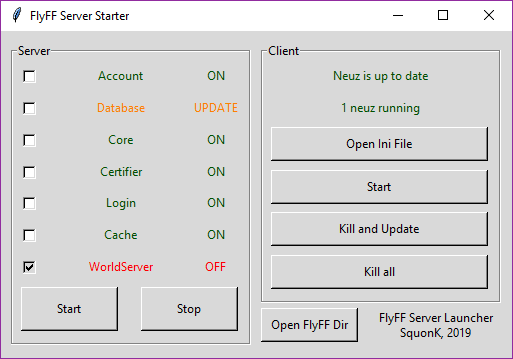
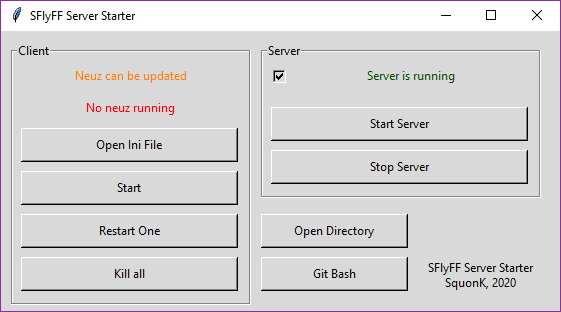
Clean the code

Changed region(s): [[0.0, 0.0, 1.0, 1.0], [0.6238, 0.2019, 0.8421, 0.2596], [0.1248, 0.2019, 0.3431, 0.2596]]

diff --git a/Launcher.py b/Launcher.py
@@ -5,15 +5,15 @@ import os
 import shutil
 from subprocess import Popen, PIPE
 
-# == FlyFF server launcher by SquonK, 2019 ==
-# The intent of this program is to fluidify the workflow by having an easy way to update servers executable
-# for local testing purposes.
+# == FlyFF server launcher by SquonK, 2019-2020 ==
+# The intent of this program is to fluidify the workflow by having an easy way
+# to update server executable for local testing purposes.
 #
 # Error checking is kept to a minimum as this program is not intended to be use in production context
 
 # Options
 # GIT_EXECUTABLE_PATH = None  # If you want the git button, replace with the path a git executable
-GIT_EXECUTABLE_PATH = "C:\Program Files\Git\git-bash.exe"
+GIT_EXECUTABLE_PATH = "C:\\Program Files\\Git\\git-bash.exe"
 
 
 # Represents a generic program with a source file where is written the compiled program and a destination executable.
@@ -68,7 +68,7 @@ class Program:
         for function in self.functions:
             function(self)
     
-    
+# Represents the client, which is 1 program and 0-n process
 class ProgramClient(Program):
     def __init__(self, executable, source):
         Program.__init__(self, executable, source)
@@ -103,7 +103,7 @@ class ProgramClient(Program):
         os.startfile(ini_file)
 
 
-# Represents a program which is part of a server (only one process concurrently, can have a dependencie)
+# Represents the server, which is 1 program and 0-1 process
 class ProgramServer(Program):
     startuphidden = None
 
@@ -115,16 +115,12 @@ class ProgramServer(Program):
                 ProgramServer.startuphidden.dwFlags |= subprocess.STARTF_USESHOWWINDOW
 
     # Initialize the program
-    def __init__(self, name, executable, source, timeout, hide=True):
+    def __init__(self, executable, source, hide=True):
         Program.__init__(self, "..\\Program\\" + executable, source)
     
         # Passed properties
-        self.name = name
-        self.timeout = timeout
         self.hide = hide
         self.check_box = None
-        self.dependencies = []
-        self.reliedby = []
         self.cwd = None
         
         ProgramServer.ensure_startup_exist()
@@ -132,12 +128,7 @@ class ProgramServer(Program):
         # Built properties
         self.process = None
         self.cwd = "..\\Program\\"
-        
-    # Add a dependencie
-    def add_dependencie(self, dependencie):
-        self.dependencies.append(dependencie)
-        dependencie.reliedby.append(self)
-        
+                
     # Returns true if a process for this program is running
     def is_running(self):
         if self.process is None:
@@ -150,24 +141,13 @@ class ProgramServer(Program):
         return False
         
     # If the process is running, kills it
-    def kill(self):
+    def kill_all_process(self):
         if self.process is None:
             return
         
         self.process.kill()
         self.process = None
-    
-    def kill_top(self):
-        for relied in self.reliedby:
-            relied.kill_top()
             
-        if self.is_running():
-            self.kill()
-    
-    def kill_all_process(self):
-        if self.is_running():
-            self.kill_top()
-    
     def get_status(self):
         if not self.is_running():
             return FlyFFLauncher.STATUS_OFF
@@ -179,22 +159,12 @@ class ProgramServer(Program):
     def start(self):
         restart = False
         
-        for dependencie in self.dependencies:
-            status = dependencie.start()
-            
-            if status == FlyFFLauncher.COULDNT_START:
-                return (0, FlyFFLauncher.COULDNT_START)
-            elif status == FlyFFLauncher.CHANGED_PROCESS:
-                restart = True
-        
         if not self.is_up_to_date():
             self.update()
             restart = True
         
         if self.is_running() and not restart:
-            return (0, FlyFFLauncher.ALREADY_STARTED)
-        
-        self.kill_top()
+            return FlyFFLauncher.ALREADY_STARTED
         
         startupinfo = ProgramServer.startuphidden if self.hide else None
         
@@ -203,9 +173,9 @@ class ProgramServer(Program):
         time.sleep(1)
 
         if self.is_running():
-            return (self.timeout - 1, FlyFFLauncher.CHANGED_PROCESS)
+            return FlyFFLauncher.CHANGED_PROCESS
         else:
-            return (self.timeout - 1, FlyFFLauncher.COULDNT_START)
+            return FlyFFLauncher.COULDNT_START
             
 
 # Global launcher
@@ -221,83 +191,40 @@ class FlyFFLauncher:
     # Constructor
     def __init__(self):
         self.client = ProgramClient('..\\Resource\\Neuz.exe', '..\\Output\\Neuz\\NoGameguard\\Neuz.exe')
-    
-        def make_output_path(name):
-            return '..\\Output\\' + name + '\\Release\\' + name + '.exe'
-    
-        self.list = [ProgramServer('SFlyFF Server', 'WorldServer.exe', make_output_path('WorldServer'), 4, False)]
-        
-        # Add dependencies
-        for i in range(len(self.list) - 1):
-            self.list[i + 1].add_dependencie(self.list[i])
+        self.server = ProgramServer('WorldServer.exe', '..\\Output\\{0}\\Release\\{0}.exe'.format('WorldServer'), False)
     
     # Launch every process of the list
     def start(self):
-        extra_timeout = 0
-        for program in self.list:
-            if extra_timeout != 0:
-                time.sleep(extra_timeout)
-            
-            extra_timeout, error = program.start() 
-            if error == FlyFFLauncher.COULDNT_START:
-                return False
-        return True
-        
-    def start_with_bound(self, i):
-        extra_timeout = 0
-        for program in self.list[0:i]:
-            if extra_timeout != 0:
-                time.sleep(extra_timeout)
-                
-            extra_timeout, error = program.start() 
-            if error == FlyFFLauncher.COULDNT_START:
-                return False
+        error = self.server.start() 
+        if error == FlyFFLauncher.COULDNT_START:
+            return False
         return True
     
     def kill_server(self):
-        for program in self.list:
-            program.kill()
-    
-    def func_server_killer(self, i):
-        def f():
-            for program in self.list[i:]:
-                program.kill()
-        return f
+        self.server.kill_all_process()
     
     def kill(self):
-        self.kill_server()
+        self.server.kill_all_process()
         self.client.kill_all_process()
         
-    def start_app(self, i):
-        def f():
-            self.list[i - 1].start()
-        return f
-    
-    def kill_app(self, i):
-        def f():
-            self.list[i - 1].kill()
-        return f
-    
     def open_dir(self):
         os.startfile("..\\")
     
     # GUI
-    def bind(self, index, function):
-        self.list[index].bind(function)
+    def bind_server(self, function):
+        self.server.bind(function)
         
     def bind_client(self, function):
         self.client.bind(function)
         
-    def apply(self, index, function):
-        function(self.list[index])
+    def apply_server(self, function):
+        function(self.server)
         
     def apply_client(self, function):
         function(self.client)
         
     def use_binds(self):
-        for program in self.list:
-            program.use_bind()
-        
+        self.server.use_bind()
         self.client.use_bind()
 
 
@@ -324,20 +251,22 @@ def link_with_gui(root, interface):
     # Extra button
     interface.OpenFlyFFDir.configure(command=flyff.open_dir)
     
-    # Server
-    status_text = {
-        FlyFFLauncher.STATUS_STARTED: "Server is running",
-        FlyFFLauncher.STATUS_OFF: "Server is off",
-        FlyFFLauncher.STATUS_OBSOLETE: "Server can be updated"
-    }
-    
+    # Bindings    
     status_color = {
         FlyFFLauncher.STATUS_STARTED: "#005000",
         FlyFFLauncher.STATUS_OFF: "#FF0000",
         FlyFFLauncher.STATUS_OBSOLETE: "#FF8000"
     }
     
-    def bind_line(index, box_name, box_status, check_box):
+    # Server Bindings
+    def install_server_bindings():
+        status_text = {
+            FlyFFLauncher.STATUS_STARTED: "Server is running",
+            FlyFFLauncher.STATUS_OFF: "Server is off",
+            FlyFFLauncher.STATUS_OBSOLETE: "Server can be updated"
+        }
+
+        check_box = interface.ServCbx01
         def copy_name(program):
             if program.hide:
                 state = tk.NORMAL
@@ -354,14 +283,14 @@ def link_with_gui(root, interface):
             program.check_box = check_box
         
         def write_status(program):
-            box_status.configure(text=status_text.get(program.get_status(), "Unknown"))
-            box_status.configure(foreground=status_color.get(program.get_status(), "black"))
+            interface.ServState01.configure(text=status_text.get(program.get_status(), "Unknown"))
+            interface.ServState01.configure(foreground=status_color.get(program.get_status(), "black"))
     
-        flyff.apply(index, copy_name)
-        flyff.bind(index, write_status)
+        flyff.apply_server(copy_name)
+        flyff.bind_server(write_status)
     
-    bind_line(0, None, interface.ServState01, interface.ServCbx01)
-    
+    install_server_bindings()
+
     def start_in_new_thread():
         from threading import Thread
         
@@ -370,6 +299,7 @@ def link_with_gui(root, interface):
                 Thread.__init__(self)
     
             def run(self):
+                button_list = [interface.ServStart_2, interface.ServStart_1]
                 for b in button_list:
                     b.configure(state=tk.DISABLED)
                 flyff.start()
@@ -378,11 +308,6 @@ def link_with_gui(root, interface):
     
         thread = StartingThread()
         thread.start()
-    
-    button_list = [
-        interface.ServStart_2,
-        interface.ServStart_1
-    ]
     
     interface.ServStart_1.configure(command=start_in_new_thread)
     interface.ServStart_2.configure(command=flyff.kill_server)

diff --git a/README.md b/README.md
@@ -1,8 +1,15 @@
 # ServerStarter
 
-This is a small python script intended to FlyFF developpers to make it easier to start / restart the parts of the server during development.
+This is a small python script intended to FlyFF developpers to make it easier to
+start / restart the parts of the server during development.
 
 ![A screenshot](Screenshot.png)
+
+This branch is the SFlyFF Branch. SFlyFF is my local server which has every
+server parts merged to reduce the synchronization problems and rework the
+architecture more easily.
+
+You can find a better suitable code for your server in the master branch.
 
 ## Install the script
 
@@ -26,19 +33,19 @@ This script is able to start the differents programs managing a server and start
 
 - The script tracks for new Server Executable and can run them
 
-    - This script uses the files found in `..\Output\X\Release\X.exe` as the "newly compiled files" where X can be AccountServer, CacheServer, Certifier, CoreServer, DatabaseServer, LoginServer or WorldServer. When the user starts a server, it will check if new compiled files are more up to date than the one in `Program`, and if so, it will replace the one in the Program folder with the one in the Output folder.
+    - This script uses the files found in `..\Output\X\Release\X.exe` as the "newly compiled files" where X is WorldServer. When the user starts a server, it will check if new compiled files are more up to date than the one in `Program`, and if so, it will replace the one in the Program folder with the one in the Output folder.
 
-    - The server is started using the executables in `..\Program.exe`.
+    - The server is started using the executables in `..\Program\WorldServer.exe`.
 
     - The script tracks every second if new compiled files are available, and displays it. When pressing Start, if the server is running and some parts are either off or obsoleted by a new compilation, the script will shutdown the needed parts, update the executables, and restart the server.
 
-    - Windows can be hidden to lighten the taskbar by checking the checkbox before starting the server.
+    - Windows can be hidden to lighten the taskbar by checking the checkbox before starting the server (let's pretend it is still relevant).
 
 - A similar machinery is applied to Neuz : 
 
     - Original Neuz is found in `..\Output\Neuz\NoGameguard\Neuz.exe` for update purpose.
     
-    - The script enables to run `..\Resource\Neuz.exe`and edit its corresponding ini file with a simple button
+    - The script enables to run `..\Resource\Neuz.exe` and edit its corresponding ini file with a simple button
     
     - If the user starts Neuz, and no Neuz is running, it will copy the eventual new compiled executable from Output to Resource.
 
@@ -57,24 +64,6 @@ This script is able to start the differents programs managing a server and start
 
 - This script is only intended for development purpose, and should not be used in production. The main reason you shouldn't use this in production context is that the main goal of the application, tracking for newly compiled executables and replacing started processes, is useless in this case.
 
-- It is possible to make a "Git" button appears which will open a git friendly terminal in the parent folder. To enables this option, open Launcher.py, and modify the line which starts with GIT_EXECUTABLE_PATH to specify a folter to your favorite terminal. If you use a Git Bash instance that is installed in the default folder, you can also comment the first GIT_EXECUTABLE_PATH line and uncomment the second one.
-
-- For production context, if one wants to have a simple script to runs every part of the server without the layer of executable tracking and without the hassle of starting manually 7 processes, here is a simple bat script :
-
-```bash
-start "" AccountServer.exe
-timeout 2
-start "" DatabaseServer.exe
-timeout 2
-start "" CoreServer.exe
-timeout 2
-start "" Certifier.exe
-timeout 2
-start "" LoginServer.exe
-timeout 2
-start "" CacheServer.exe
-timeout 2
-start "" WorldServer.exe
-```
+- A "Git" button is also present which will open a git friendly terminal in the parent folder. To disable this option, open Launcher.py, and modify the line which starts with GIT_EXECUTABLE_PATH.
 
 - This script is distributed under the MIT Licence.
